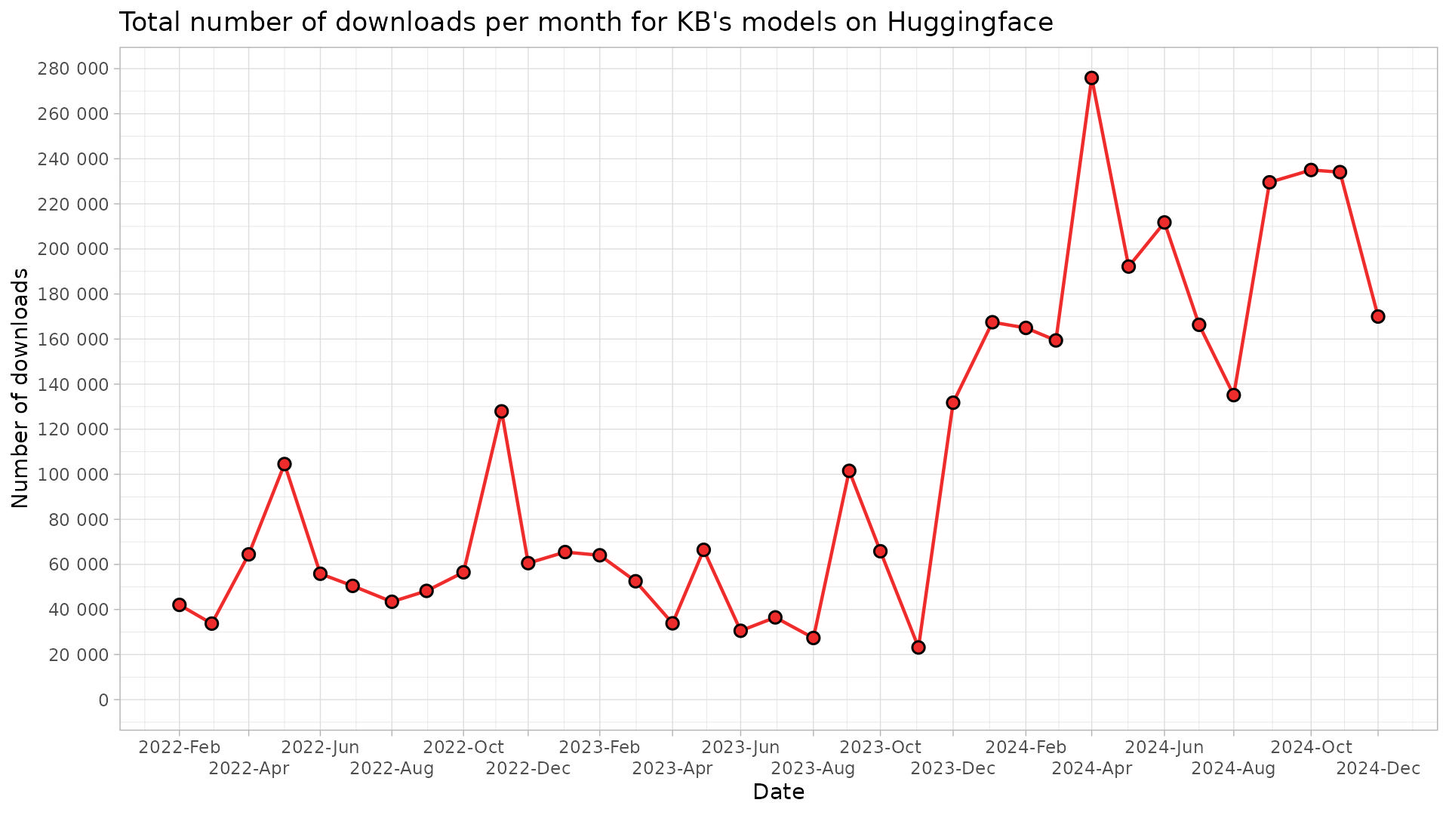
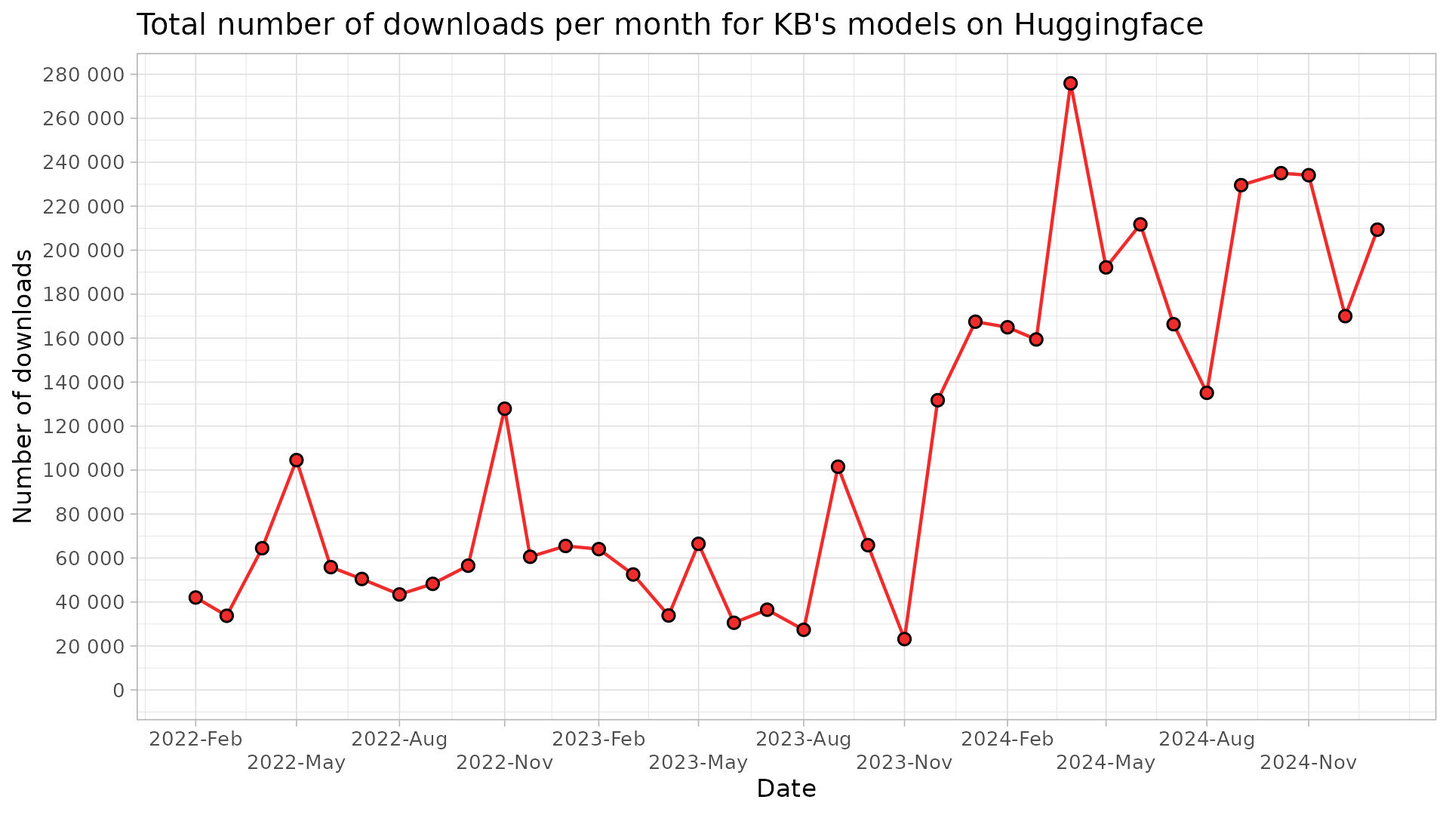
January 2025 update

diff --git a/README.md b/README.md
@@ -12,64 +12,65 @@ Script is run monthly, and a monthly `csv`-file outputted to `/data` folder.
 
 ## Table of downloads
 
-|model_name                                           | 2022-02| 2022-03| 2022-04| 2022-05| 2022-06| 2022-07| 2022-08| 2022-09| 2022-10| 2022-11| 2022-12| 2023-01| 2023-02| 2023-03| 2023-04| 2023-05| 2023-06| 2023-07| 2023-08| 2023-09| 2023-10| 2023-11| 2023-12| 2024-01| 2024-02| 2024-03| 2024-04| 2024-05| 2024-06| 2024-07| 2024-08| 2024-09| 2024-10| 2024-11| 2024-12|
-|:----------------------------------------------------|-------:|-------:|-------:|-------:|-------:|-------:|-------:|-------:|-------:|-------:|-------:|-------:|-------:|-------:|-------:|-------:|-------:|-------:|-------:|-------:|-------:|-------:|-------:|-------:|-------:|-------:|-------:|-------:|-------:|-------:|-------:|-------:|-------:|-------:|-------:|
-|albert-base-swedish-cased-alpha                      |     126|     252|      61|      52|      52|      28|      31|      17|      30|      64|     229|      37|      32|      75|      13|      17|      24|      39|      14|      18|       4|      71|      75|      74|      20|      27|     100|     220|      31|      19|      19|     116|      14|      22|      45|
-|asr-voxrex-bart-base                                 |      11|      10|      19|       5|       2|       1|       1|       3|       2|       3|       2|       4|       9|      15|       7|       2|       4|       7|       4|       3|       8|       2|       5|       1|       6|       8|       5|       8|       8|      50|       6|      20|      12|      29|      36|
-|bart-base-swedish-cased                              |      74|      12|     116|     126|      32|      18|      41|      56|      81|       6|       9|      18|      41|      70|     110|      60|      50|      40|      23|       9|      63|      44|      42|      11|     129|      14|     119|      14|      56|      32|     288|      19|      42|     265|      79|
-|bert-base-swedish-cased                              |   16509|   25080|   49286|   82528|   38802|   29511|   17012|   25106|   36702|   92636|   44016|   28164|   47819|   28864|   17684|   28878|   16390|   24502|   16303|   54271|   29238|    6625|    7620|   17149|    8106|    6290|   10094|    6253|   21139|   15689|    4996|    7660|    8387|   16895|   10877|
-|bert-base-swedish-cased-alpha                        |      22|      24|    1362|      34|       8|      73|       7|      14|      14|      14|      10|     160|     151|       6|       9|       5|       6|       9|       2|      12|       3|       4|       5|       3|       5|      11|      15|       2|       9|       8|       7|      14|      14|       8|      10|
-|bert-base-swedish-cased-ner                          |   19891|    3353|    4783|    4221|   12487|   17406|   24290|   20200|   14852|   11251|   10014|    9759|    9957|   14508|    9834|   12293|    9868|    9701|    8258|    8767|   14214|   10149|  117977|  143050|  139912|  131659|  148695|  144309|  149658|  100264|   93427|  159109|  144069|  124514|   14729|
-|bert-base-swedish-cased-neriob                       |       8|      87|      34|      25|       4|      44|       2|       1|      62|      10|       5|      31|       5|       8|       6|       6|       9|      18|       2|       1|       0|      19|       8|       5|       5|      11|      15|       3|      22|       7|      10|      26|      17|      22|      25|
-|bert-base-swedish-cased-new                          |      NA|       0|     377|    1069|     786|      10|     238|      69|     225|     168|     163|      46|      44|     352|     303|      33|      52|      69|      73|     211|      96|      84|      30|      34|       5|      53|      59|     279|      76|      27|       8|     750|    1045|     421|     166|
-|bert-base-swedish-cased-pos                          |     428|     179|     107|     104|     168|     310|       2|       2|     467|    7959|    2083|   21410|    1713|     300|      15|      28|      58|      64|       9|      75|      28|     312|     159|     166|     239|      33|      20|      12|      80|      32|      15|      47|     104|      43|      75|
-|bert-base-swedish-cased-reallysimple-ner             |       6|      32|       9|       7|      11|      10|       3|       8|      10|      17|       4|      16|     159|     401|     211|     334|     327|     326|      74|     152|     341|     304|     274|       3|       7|      14|      14|       4|      12|       6|      11|      35|      17|      10|      70|
-|bert-base-swedish-cased-squad-experimental           |     323|     136|      45|      23|      40|     182|      25|      27|     101|      10|      22|      62|      56|     643|     130|   16262|      29|      29|       4|      16|      10|     280|      64|      34|     275|      30|      44|       4|      13|      36|      47|      46|      15|      18|      20|
-|bert-base-swedish-lowermix-reallysimple-ner          |       6|     453|     248|     312|     901|     991|     930|     871|    2274|    3958|    1963|    3010|    2567|    2485|    3919|    6258|    2875|     121|      53|     417|    4874|     769|     327|     713|      81|     111|     696|     104|     623|      31|      33|     261|      40|      38|      52|
-|electra-base-swedish-cased-discriminator             |     317|     143|     149|    1404|       2|       3|       3|       3|       2|       5|       0|       7|       2|       0|       6|       7|       4|       8|       0|       1|       0|       4|       0|       1|       4|       5|      15|       2|       5|       4|       4|       4|       3|       2|       9|
-|electra-base-swedish-cased-generator                 |       9|      15|      26|      31|       2|      19|       1|      18|       1|       9|       4|      10|       4|      14|      88|      78|     107|      72|       3|      15|      39|      12|       7|      11|       8|      52|      53|       6|      27|       2|       5|       5|       2|       4|       8|
-|electra-small-swedish-cased-discriminator            |      12|       5|    1467|    3804|      10|       5|       2|       2|       2|      10|       8|      12|     153|       1|       9|       2|       6|       4|      18|       6|       0|       3|       0|       7|      11|      13|       9|       4|       9|       7|      14|       8|      10|       7|      24|
-|electra-small-swedish-cased-generator                |      NA|       3|     138|      14|       4|      19|       2|       3|       4|       8|       6|      11|       4|       3|       6|      14|       4|       9|       0|       1|       0|     131|       5|       3|       5|       9|      13|       2|      10|       4|       9|       8|       3|       3|      13|
-|emotional-classification                             |      NA|      NA|      NA|      NA|      NA|      NA|      NA|      NA|      NA|      NA|      NA|      NA|      NA|      NA|      NA|      NA|      NA|     155|       3|       1|       2|      27|       9|       0|       0|      13|      63|       1|       8|       2|       8|     597|      33|      20|      22|
-|kb-whisper-medium-beta                               |      NA|      NA|      NA|      NA|      NA|      NA|      NA|      NA|      NA|      NA|      NA|      NA|      NA|      NA|      NA|      NA|      NA|      NA|      NA|      NA|      NA|      NA|      NA|      NA|      NA|      NA|      NA|      NA|      NA|      NA|      NA|      NA|      NA|      NA|     111|
-|kb-whisper-small-beta                                |      NA|      NA|      NA|      NA|      NA|      NA|      NA|      NA|      NA|      NA|      NA|      NA|      NA|      NA|      NA|      NA|      NA|      NA|      NA|      NA|      NA|      NA|      NA|      NA|      NA|      NA|      NA|      NA|      NA|      NA|      NA|      NA|      NA|      NA|      32|
-|megatron-bert-base-swedish-cased-125k                |      NA|       0|     353|       0|       2|       8|       1|       3|     131|      55|     158|      27|      21|      19|       7|       6|      10|      10|       4|       2|       0|       4|      29|      22|       5|       3|       4|      67|       8|       2|       6|      32|      17|      27|      35|
-|megatron-bert-base-swedish-cased-600k                |      NA|      10|     288|      87|      30|      16|      16|      17|     111|      12|      20|     194|      27|      49|      13|      15|     100|      22|       2|       2|      15|      12|      41|      21|       5|      67|       6|      71|      30|       6|      13|      19|      18|      27|      40|
-|megatron-bert-large-swedish-cased-110k               |      NA|       0|     346|      77|       4|       4|       0|       1|       1|     171|     160|      15|       8|      23|       4|       2|       4|       3|       0|   33671|   14716|      38|      63|     106|      29|      70|      79|      43|      31|      24|      23|       8|      15|      21|      36|
-|megatron-bert-large-swedish-cased-165-zero-shot      |      NA|      NA|      NA|      NA|      NA|      NA|      NA|      NA|      NA|      NA|       5|      55|      26|      63|      20|     621|      69|     135|      58|     170|      48|     243|     123|      40|     127|     147|      56|     123|     119|       7|      27|      40|      98|     217|     128|
-|megatron-bert-large-swedish-cased-165k               |      NA|      NA|       9|      13|      40|      19|      53|       2|      18|     336|     327|      21|      34|      67|      43|      56|      36|      52|      13|      86|      37|      12|     343|     153|      24|      18|      24|      15|      15|       3|       5|       9|      39|     342|      70|
-|megatron.bert-base.bpe-32k-no_pretok.25k-steps       |      NA|      NA|      NA|      NA|      NA|      NA|      NA|      NA|      NA|      NA|      NA|      NA|      NA|      NA|      NA|      NA|      NA|      NA|      NA|      NA|      NA|      NA|      NA|      NA|      NA|      NA|      NA|       3|       2|       4|       4|       5|       6|       2|      15|
-|megatron.bert-base.bpe-64k-no_pretok.25k-steps       |      NA|      NA|      NA|      NA|      NA|      NA|      NA|      NA|      NA|      NA|      NA|      NA|      NA|      NA|      NA|      NA|      NA|      NA|      NA|      NA|      NA|      NA|      NA|      NA|      NA|      NA|      NA|       3|       3|       3|       5|       4|       3|       2|      16|
-|megatron.bert-base.spe-bpe-32k-no_pretok.25k-steps   |      NA|      NA|      NA|      NA|      NA|      NA|      NA|      NA|      NA|      NA|      NA|      NA|      NA|      NA|      NA|      NA|      NA|      NA|      NA|      NA|      NA|      NA|      NA|      NA|      NA|      NA|      NA|       3|       3|       3|       4|       4|       6|       4|      16|
-|megatron.bert-base.spe-bpe-32k-pretok.25k-steps      |      NA|      NA|      NA|      NA|      NA|      NA|      NA|      NA|      NA|      NA|      NA|      NA|      NA|      NA|      NA|      NA|      NA|      NA|      NA|      NA|      NA|      NA|      NA|      NA|      NA|      NA|      NA|       3|       3|       3|       4|       4|       4|       2|      16|
-|megatron.bert-base.spe-bpe-64k-no_pretok.25k-steps   |      NA|      NA|      NA|      NA|      NA|      NA|      NA|      NA|      NA|      NA|      NA|      NA|      NA|      NA|      NA|      NA|      NA|      NA|      NA|      NA|      NA|      NA|      NA|      NA|      NA|      NA|      NA|       3|       3|       4|       4|       4|       0|       2|      18|
-|megatron.bert-base.spe-bpe-64k-pretok.25k-steps      |      NA|      NA|      NA|      NA|      NA|      NA|      NA|      NA|      NA|      NA|      NA|      NA|      NA|      NA|      NA|      NA|      NA|      NA|      NA|      NA|      NA|      NA|      NA|      NA|      NA|      NA|      NA|       3|       3|       2|       4|       5|       2|       2|      15|
-|megatron.bert-base.unigram-32k-no_pretok.25k-steps   |      NA|      NA|      NA|      NA|      NA|      NA|      NA|      NA|      NA|      NA|      NA|      NA|      NA|      NA|      NA|      NA|      NA|      NA|      NA|      NA|      NA|      NA|      NA|      NA|      NA|      NA|      NA|       3|       3|       3|       4|       4|       7|       0|      18|
-|megatron.bert-base.unigram-32k-pretok.25k-steps      |      NA|      NA|      NA|      NA|      NA|      NA|      NA|      NA|      NA|      NA|      NA|      NA|      NA|      NA|      NA|      NA|      NA|      NA|      NA|      NA|      NA|      NA|      NA|      NA|      NA|      NA|      NA|       3|       3|       3|       4|       3|       3|       2|      16|
-|megatron.bert-base.unigram-64k-no_pretok.25k-steps   |      NA|      NA|      NA|      NA|      NA|      NA|      NA|      NA|      NA|      NA|      NA|      NA|      NA|      NA|      NA|      NA|      NA|      NA|      NA|      NA|      NA|      NA|      NA|      NA|      NA|      NA|      NA|       3|       3|       3|       5|       4|       4|       0|      16|
-|megatron.bert-base.unigram-64k-pretok.25k-steps      |      NA|      NA|      NA|      NA|      NA|      NA|      NA|      NA|      NA|      NA|      NA|      NA|      NA|      NA|      NA|      NA|      NA|      NA|      NA|      NA|      NA|      NA|      NA|      NA|      NA|      NA|      NA|       3|       4|       3|       4|       4|       8|       2|      16|
-|megatron.bert-base.wordpiece-32k-no_pretok.25k-steps |      NA|      NA|      NA|      NA|      NA|      NA|      NA|      NA|      NA|      NA|      NA|      NA|      NA|      NA|      NA|      NA|      NA|      NA|      NA|      NA|      NA|      NA|      NA|      NA|      NA|      NA|      NA|       3|       3|       3|       4|       4|      15|       1|      17|
-|megatron.bert-base.wordpiece-32k-pretok.25k-steps    |      NA|      NA|      NA|      NA|      NA|      NA|      NA|      NA|      NA|      NA|      NA|      NA|      NA|      NA|      NA|      NA|      NA|      NA|      NA|      NA|      NA|      NA|      NA|      NA|      NA|      NA|      NA|       9|       3|       3|       5|       5|       7|       3|      15|
-|megatron.bert-base.wordpiece-64k-no_pretok.25k-steps |      NA|      NA|      NA|      NA|      NA|      NA|      NA|      NA|      NA|      NA|      NA|      NA|      NA|      NA|      NA|      NA|      NA|      NA|      NA|      NA|      NA|      NA|      NA|      NA|      NA|      NA|      NA|       3|       3|       3|       5|       6|       5|       2|      17|
-|megatron.bert-base.wordpiece-64k-pretok.25k-steps    |      NA|      NA|      NA|      NA|      NA|      NA|      NA|      NA|      NA|      NA|      NA|      NA|      NA|      NA|      NA|      NA|      NA|      NA|      NA|      NA|      NA|      NA|      NA|      NA|      NA|      NA|      NA|       3|       3|       2|       4|      13|       4|       2|      16|
-|megatron.bert-large.bpe-64k-no_pretok.25k-steps      |      NA|      NA|      NA|      NA|      NA|      NA|      NA|      NA|      NA|      NA|      NA|      NA|      NA|      NA|      NA|      NA|      NA|      NA|      NA|      NA|      NA|      NA|      NA|      NA|      NA|      NA|      NA|       3|       3|       3|       4|       6|       4|       3|      17|
-|megatron.bert-large.spe-bpe-32k-pretok.25k-steps     |      NA|      NA|      NA|      NA|      NA|      NA|      NA|      NA|      NA|      NA|      NA|      NA|      NA|      NA|      NA|      NA|      NA|      NA|      NA|      NA|      NA|      NA|      NA|      NA|      NA|      NA|      NA|       3|       3|       3|       4|       7|      13|       3|      15|
-|megatron.bert-large.unigram-32k-pretok.25k-steps     |      NA|      NA|      NA|      NA|      NA|      NA|      NA|      NA|      NA|      NA|      NA|      NA|      NA|      NA|      NA|      NA|      NA|      NA|      NA|      NA|      NA|      NA|      NA|      NA|      NA|      NA|      NA|       3|       3|       2|       4|       5|       7|       4|      24|
-|megatron.bert-large.unigram-64k-pretok.25k-steps     |      NA|      NA|      NA|      NA|      NA|      NA|      NA|      NA|      NA|      NA|      NA|      NA|      NA|      NA|      NA|      NA|      NA|      NA|      NA|      NA|      NA|      NA|      NA|      NA|      NA|      NA|      NA|       3|       3|       3|       5|       7|       2|       3|      20|
-|megatron.bert-large.unigram-64k-pretok.500k-steps    |      NA|      NA|      NA|      NA|      NA|      NA|      NA|      NA|      NA|      NA|      NA|      NA|      NA|      NA|      NA|      NA|      NA|      NA|      NA|      NA|      NA|      NA|      NA|      NA|      NA|     310|      11|       1|       1|       2|       4|       5|       7|       0|       7|
-|megatron.bert-large.wordpiece-32k-pretok.25k-steps   |      NA|      NA|      NA|      NA|      NA|      NA|      NA|      NA|      NA|      NA|      NA|      NA|      NA|      NA|      NA|      NA|      NA|      NA|      NA|      NA|      NA|      NA|      NA|      NA|      NA|      NA|      NA|       3|       3|       3|       5|       6|       6|       3|      17|
-|megatron.bert-large.wordpiece-64k-pretok.25k-steps   |      NA|      NA|      NA|      NA|      NA|      NA|      NA|      NA|      NA|      NA|      NA|      NA|      NA|      NA|      NA|      NA|      NA|      NA|      NA|      NA|      NA|      NA|      NA|      NA|      NA|      NA|      NA|       9|       4|       3|       5|       5|       7|       2|      17|
-|piper-tts-nst-swedish                                |      NA|      NA|      NA|      NA|      NA|      NA|      NA|      NA|      NA|      NA|      NA|      NA|      NA|      NA|      NA|       1|       8|       3|       0|       0|       0|       1|       0|       0|       0|       3|       7|      11|       3|       1|       6|       1|       8|       6|       9|
-|roberta-base-swedish-cased                           |       7|       7|     471|       8|      78|       5|      67|       2|       0|       5|       5|      37|     150|       3|       6|     204|      10|       9|       1|       2|       2|       2|       3|       3|      30|      15|       9|       3|      10|       3|       8|       7|       8|       3|       9|
-|robust-swedish-sentiment-multiclass                  |      NA|      NA|      NA|      NA|      NA|      NA|      NA|      NA|      NA|      NA|      NA|      NA|      NA|      NA|      NA|      NA|      12|     296|       8|      58|     119|    1505|    2263|    2206|    2178|    2895|    7783|    2968|    5544|   36910|    5320|   10749|    5771|    7277|   46387|
-|sentence-bert-swedish-cased                          |    2033|    1988|    2079|    8110|     721|    1299|     304|    1157|     597|    1008|     887|    1441|     546|    3499|     955|     970|     327|     328|    2135|    2841|    1071|    1067|    1258|     383|    1733|    6143|  101722|    8376|   15360|    1376|    1874|   23133|    6131|    4970|   12598|
-|swedish-ocr-correction                               |      NA|      NA|      NA|      NA|      NA|      NA|      NA|      NA|      NA|      NA|      NA|      NA|      NA|      NA|      NA|      NA|      NA|      NA|      NA|      NA|      NA|      NA|      NA|      NA|      NA|      NA|      NA|      NA|      NA|      NA|      NA|      NA|      16|      17|      15|
-|swedish-spacy-pipeline                               |      65|      22|       5|       2|       5|       9|       1|       2|       0|       1|       3|       4|       6|      90|       3|       1|       0|       1|       3|       9|       5|       5|       5|       3|      56|       5|       4|       2|       2|       8|       9|       5|      28|       8|      12|
-|wav2vec2-base-voxpopuli-sv-swedish                   |      NA|      21|      19|       7|       1|      NA|       1|       5|      99|       6|       2|      13|      57|      12|      56|       4|      26|       9|       0|       1|       7|       4|       2|     113|       5|       6|      12|       4|       9|       6|      14|      27|      20|      23|      18|
-|wav2vec2-large-voxpopuli-sv-swedish                  |      58|      32|      73|      57|      24|       5|       5|      11|      59|      15|       7|      23|       9|      10|      13|      10|       7|      14|       4|       1|       5|      26|       2|       3|      12|     117|      14|      13|       2|      19|      12|      14|      41|      23|      15|
-|wav2vec2-large-voxrex                                |     780|     609|     996|      57|     102|      55|      13|      34|      74|       4|       0|      56|      17|      11|       8|      17|       4|      15|       2|       1|      13|       6|       3|       1|      12|      10|      10|      20|      18|       8|      13|      94|      35|      53|      23|
-|wav2vec2-large-voxrex-swedish                        |    1356|    1151|    1534|    2331|    1277|     334|     361|     611|     531|   10157|     146|     770|     411|     732|     290|     225|      65|     330|     217|     624|     752|     769|     829|     392|    3000|    2389|    3129|    4330|    5762|    7066|   20122|    7507|   38441|   39341|   53597|
-|wav2vec2-large-xlsr-53-swedish                       |      NA|     112|      55|      32|     259|      91|      19|       9|      61|      26|     307|      71|      32|      76|      26|      31|      45|      65|      50|      77|     126|     586|     188|    2766|    8897|    8785|    2962|   24811|   12976|    4572|    8654|   19055|   30321|   39315|   30187|
-|whisper-large-rixvox                                 |      NA|      NA|      NA|      NA|      NA|      NA|      NA|      NA|      NA|      NA|      NA|      NA|      NA|     113|      56|       8|       9|      12|       9|       6|       0|      16|       0|       2|      19|      38|      18|      12|      11|      31|       8|      28|      57|      44|      47|
-|whisper-small-rixvox                                 |      NA|      NA|      NA|      NA|      NA|      NA|      NA|      NA|      NA|      NA|      NA|      NA|      NA|       3|       1|       6|       2|       7|       0|       0|       0|       1|       0|       0|       0|      13|       2|       1|       7|       1|       6|       4|       3|       8|      15|
-|whisper-tiny-rixvox                                  |      NA|      NA|      NA|      NA|      NA|      NA|      NA|      NA|      NA|      NA|      NA|      NA|      NA|       9|       1|       5|       4|       7|       3|       0|       0|       1|       0|       0|       2|      12|       6|       1|       7|       1|       5|       3|       9|       7|       9|
+|model_name                                           | 2022-02| 2022-03| 2022-04| 2022-05| 2022-06| 2022-07| 2022-08| 2022-09| 2022-10| 2022-11| 2022-12| 2023-01| 2023-02| 2023-03| 2023-04| 2023-05| 2023-06| 2023-07| 2023-08| 2023-09| 2023-10| 2023-11| 2023-12| 2024-01| 2024-02| 2024-03| 2024-04| 2024-05| 2024-06| 2024-07| 2024-08| 2024-09| 2024-10| 2024-11| 2024-12| 2025-01|
+|:----------------------------------------------------|-------:|-------:|-------:|-------:|-------:|-------:|-------:|-------:|-------:|-------:|-------:|-------:|-------:|-------:|-------:|-------:|-------:|-------:|-------:|-------:|-------:|-------:|-------:|-------:|-------:|-------:|-------:|-------:|-------:|-------:|-------:|-------:|-------:|-------:|-------:|-------:|
+|albert-base-swedish-cased-alpha                      |     126|     252|      61|      52|      52|      28|      31|      17|      30|      64|     229|      37|      32|      75|      13|      17|      24|      39|      14|      18|       4|      71|      75|      74|      20|      27|     100|     220|      31|      19|      19|     116|      14|      22|      45|       9|
+|asr-voxrex-bart-base                                 |      11|      10|      19|       5|       2|       1|       1|       3|       2|       3|       2|       4|       9|      15|       7|       2|       4|       7|       4|       3|       8|       2|       5|       1|       6|       8|       5|       8|       8|      50|       6|      20|      12|      29|      36|      14|
+|bart-base-swedish-cased                              |      74|      12|     116|     126|      32|      18|      41|      56|      81|       6|       9|      18|      41|      70|     110|      60|      50|      40|      23|       9|      63|      44|      42|      11|     129|      14|     119|      14|      56|      32|     288|      19|      42|     265|      79|      14|
+|bert-base-swedish-cased                              |   16509|   25080|   49286|   82528|   38802|   29511|   17012|   25106|   36702|   92636|   44016|   28164|   47819|   28864|   17684|   28878|   16390|   24502|   16303|   54271|   29238|    6625|    7620|   17149|    8106|    6290|   10094|    6253|   21139|   15689|    4996|    7660|    8387|   16895|   10877|    8165|
+|bert-base-swedish-cased-alpha                        |      22|      24|    1362|      34|       8|      73|       7|      14|      14|      14|      10|     160|     151|       6|       9|       5|       6|       9|       2|      12|       3|       4|       5|       3|       5|      11|      15|       2|       9|       8|       7|      14|      14|       8|      10|      10|
+|bert-base-swedish-cased-ner                          |   19891|    3353|    4783|    4221|   12487|   17406|   24290|   20200|   14852|   11251|   10014|    9759|    9957|   14508|    9834|   12293|    9868|    9701|    8258|    8767|   14214|   10149|  117977|  143050|  139912|  131659|  148695|  144309|  149658|  100264|   93427|  159109|  144069|  124514|   14729|   12120|
+|bert-base-swedish-cased-neriob                       |       8|      87|      34|      25|       4|      44|       2|       1|      62|      10|       5|      31|       5|       8|       6|       6|       9|      18|       2|       1|       0|      19|       8|       5|       5|      11|      15|       3|      22|       7|      10|      26|      17|      22|      25|      77|
+|bert-base-swedish-cased-new                          |      NA|       0|     377|    1069|     786|      10|     238|      69|     225|     168|     163|      46|      44|     352|     303|      33|      52|      69|      73|     211|      96|      84|      30|      34|       5|      53|      59|     279|      76|      27|       8|     750|    1045|     421|     166|      22|
+|bert-base-swedish-cased-pos                          |     428|     179|     107|     104|     168|     310|       2|       2|     467|    7959|    2083|   21410|    1713|     300|      15|      28|      58|      64|       9|      75|      28|     312|     159|     166|     239|      33|      20|      12|      80|      32|      15|      47|     104|      43|      75|      65|
+|bert-base-swedish-cased-reallysimple-ner             |       6|      32|       9|       7|      11|      10|       3|       8|      10|      17|       4|      16|     159|     401|     211|     334|     327|     326|      74|     152|     341|     304|     274|       3|       7|      14|      14|       4|      12|       6|      11|      35|      17|      10|      70|      44|
+|bert-base-swedish-cased-squad-experimental           |     323|     136|      45|      23|      40|     182|      25|      27|     101|      10|      22|      62|      56|     643|     130|   16262|      29|      29|       4|      16|      10|     280|      64|      34|     275|      30|      44|       4|      13|      36|      47|      46|      15|      18|      20|      42|
+|bert-base-swedish-lowermix-reallysimple-ner          |       6|     453|     248|     312|     901|     991|     930|     871|    2274|    3958|    1963|    3010|    2567|    2485|    3919|    6258|    2875|     121|      53|     417|    4874|     769|     327|     713|      81|     111|     696|     104|     623|      31|      33|     261|      40|      38|      52|      56|
+|electra-base-swedish-cased-discriminator             |     317|     143|     149|    1404|       2|       3|       3|       3|       2|       5|       0|       7|       2|       0|       6|       7|       4|       8|       0|       1|       0|       4|       0|       1|       4|       5|      15|       2|       5|       4|       4|       4|       3|       2|       9|       6|
+|electra-base-swedish-cased-generator                 |       9|      15|      26|      31|       2|      19|       1|      18|       1|       9|       4|      10|       4|      14|      88|      78|     107|      72|       3|      15|      39|      12|       7|      11|       8|      52|      53|       6|      27|       2|       5|       5|       2|       4|       8|       5|
+|electra-small-swedish-cased-discriminator            |      12|       5|    1467|    3804|      10|       5|       2|       2|       2|      10|       8|      12|     153|       1|       9|       2|       6|       4|      18|       6|       0|       3|       0|       7|      11|      13|       9|       4|       9|       7|      14|       8|      10|       7|      24|      13|
+|electra-small-swedish-cased-generator                |      NA|       3|     138|      14|       4|      19|       2|       3|       4|       8|       6|      11|       4|       3|       6|      14|       4|       9|       0|       1|       0|     131|       5|       3|       5|       9|      13|       2|      10|       4|       9|       8|       3|       3|      13|       4|
+|emotional-classification                             |      NA|      NA|      NA|      NA|      NA|      NA|      NA|      NA|      NA|      NA|      NA|      NA|      NA|      NA|      NA|      NA|      NA|     155|       3|       1|       2|      27|       9|       0|       0|      13|      63|       1|       8|       2|       8|     597|      33|      20|      22|      18|
+|kb-whisper-large-beta                                |      NA|      NA|      NA|      NA|      NA|      NA|      NA|      NA|      NA|      NA|      NA|      NA|      NA|      NA|      NA|      NA|      NA|      NA|      NA|      NA|      NA|      NA|      NA|      NA|      NA|      NA|      NA|      NA|      NA|      NA|      NA|      NA|      NA|      NA|      NA|      12|
+|kb-whisper-medium-beta                               |      NA|      NA|      NA|      NA|      NA|      NA|      NA|      NA|      NA|      NA|      NA|      NA|      NA|      NA|      NA|      NA|      NA|      NA|      NA|      NA|      NA|      NA|      NA|      NA|      NA|      NA|      NA|      NA|      NA|      NA|      NA|      NA|      NA|      NA|     111|      85|
+|kb-whisper-small-beta                                |      NA|      NA|      NA|      NA|      NA|      NA|      NA|      NA|      NA|      NA|      NA|      NA|      NA|      NA|      NA|      NA|      NA|      NA|      NA|      NA|      NA|      NA|      NA|      NA|      NA|      NA|      NA|      NA|      NA|      NA|      NA|      NA|      NA|      NA|      32|      33|
+|megatron-bert-base-swedish-cased-125k                |      NA|       0|     353|       0|       2|       8|       1|       3|     131|      55|     158|      27|      21|      19|       7|       6|      10|      10|       4|       2|       0|       4|      29|      22|       5|       3|       4|      67|       8|       2|       6|      32|      17|      27|      35|       5|
+|megatron-bert-base-swedish-cased-600k                |      NA|      10|     288|      87|      30|      16|      16|      17|     111|      12|      20|     194|      27|      49|      13|      15|     100|      22|       2|       2|      15|      12|      41|      21|       5|      67|       6|      71|      30|       6|      13|      19|      18|      27|      40|       8|
+|megatron-bert-large-swedish-cased-110k               |      NA|       0|     346|      77|       4|       4|       0|       1|       1|     171|     160|      15|       8|      23|       4|       2|       4|       3|       0|   33671|   14716|      38|      63|     106|      29|      70|      79|      43|      31|      24|      23|       8|      15|      21|      36|       4|
+|megatron-bert-large-swedish-cased-165-zero-shot      |      NA|      NA|      NA|      NA|      NA|      NA|      NA|      NA|      NA|      NA|       5|      55|      26|      63|      20|     621|      69|     135|      58|     170|      48|     243|     123|      40|     127|     147|      56|     123|     119|       7|      27|      40|      98|     217|     128|      57|
+|megatron-bert-large-swedish-cased-165k               |      NA|      NA|       9|      13|      40|      19|      53|       2|      18|     336|     327|      21|      34|      67|      43|      56|      36|      52|      13|      86|      37|      12|     343|     153|      24|      18|      24|      15|      15|       3|       5|       9|      39|     342|      70|      14|
+|megatron.bert-base.bpe-32k-no_pretok.25k-steps       |      NA|      NA|      NA|      NA|      NA|      NA|      NA|      NA|      NA|      NA|      NA|      NA|      NA|      NA|      NA|      NA|      NA|      NA|      NA|      NA|      NA|      NA|      NA|      NA|      NA|      NA|      NA|       3|       2|       4|       4|       5|       6|       2|      15|       2|
+|megatron.bert-base.bpe-64k-no_pretok.25k-steps       |      NA|      NA|      NA|      NA|      NA|      NA|      NA|      NA|      NA|      NA|      NA|      NA|      NA|      NA|      NA|      NA|      NA|      NA|      NA|      NA|      NA|      NA|      NA|      NA|      NA|      NA|      NA|       3|       3|       3|       5|       4|       3|       2|      16|       2|
+|megatron.bert-base.spe-bpe-32k-no_pretok.25k-steps   |      NA|      NA|      NA|      NA|      NA|      NA|      NA|      NA|      NA|      NA|      NA|      NA|      NA|      NA|      NA|      NA|      NA|      NA|      NA|      NA|      NA|      NA|      NA|      NA|      NA|      NA|      NA|       3|       3|       3|       4|       4|       6|       4|      16|       2|
+|megatron.bert-base.spe-bpe-32k-pretok.25k-steps      |      NA|      NA|      NA|      NA|      NA|      NA|      NA|      NA|      NA|      NA|      NA|      NA|      NA|      NA|      NA|      NA|      NA|      NA|      NA|      NA|      NA|      NA|      NA|      NA|      NA|      NA|      NA|       3|       3|       3|       4|       4|       4|       2|      16|       5|
+|megatron.bert-base.spe-bpe-64k-no_pretok.25k-steps   |      NA|      NA|      NA|      NA|      NA|      NA|      NA|      NA|      NA|      NA|      NA|      NA|      NA|      NA|      NA|      NA|      NA|      NA|      NA|      NA|      NA|      NA|      NA|      NA|      NA|      NA|      NA|       3|       3|       4|       4|       4|       0|       2|      18|       2|
+|megatron.bert-base.spe-bpe-64k-pretok.25k-steps      |      NA|      NA|      NA|      NA|      NA|      NA|      NA|      NA|      NA|      NA|      NA|      NA|      NA|      NA|      NA|      NA|      NA|      NA|      NA|      NA|      NA|      NA|      NA|      NA|      NA|      NA|      NA|       3|       3|       2|       4|       5|       2|       2|      15|       2|
+|megatron.bert-base.unigram-32k-no_pretok.25k-steps   |      NA|      NA|      NA|      NA|      NA|      NA|      NA|      NA|      NA|      NA|      NA|      NA|      NA|      NA|      NA|      NA|      NA|      NA|      NA|      NA|      NA|      NA|      NA|      NA|      NA|      NA|      NA|       3|       3|       3|       4|       4|       7|       0|      18|       2|
+|megatron.bert-base.unigram-32k-pretok.25k-steps      |      NA|      NA|      NA|      NA|      NA|      NA|      NA|      NA|      NA|      NA|      NA|      NA|      NA|      NA|      NA|      NA|      NA|      NA|      NA|      NA|      NA|      NA|      NA|      NA|      NA|      NA|      NA|       3|       3|       3|       4|       3|       3|       2|      16|       2|
+|megatron.bert-base.unigram-64k-no_pretok.25k-steps   |      NA|      NA|      NA|      NA|      NA|      NA|      NA|      NA|      NA|      NA|      NA|      NA|      NA|      NA|      NA|      NA|      NA|      NA|      NA|      NA|      NA|      NA|      NA|      NA|      NA|      NA|      NA|       3|       3|       3|       5|       4|       4|       0|      16|       2|
+|megatron.bert-base.unigram-64k-pretok.25k-steps      |      NA|      NA|      NA|      NA|      NA|      NA|      NA|      NA|      NA|      NA|      NA|      NA|      NA|      NA|      NA|      NA|      NA|      NA|      NA|      NA|      NA|      NA|      NA|      NA|      NA|      NA|      NA|       3|       4|       3|       4|       4|       8|       2|      16|       2|
+|megatron.bert-base.wordpiece-32k-no_pretok.25k-steps |      NA|      NA|      NA|      NA|      NA|      NA|      NA|      NA|      NA|      NA|      NA|      NA|      NA|      NA|      NA|      NA|      NA|      NA|      NA|      NA|      NA|      NA|      NA|      NA|      NA|      NA|      NA|       3|       3|       3|       4|       4|      15|       1|      17|       9|
+|megatron.bert-base.wordpiece-32k-pretok.25k-steps    |      NA|      NA|      NA|      NA|      NA|      NA|      NA|      NA|      NA|      NA|      NA|      NA|      NA|      NA|      NA|      NA|      NA|      NA|      NA|      NA|      NA|      NA|      NA|      NA|      NA|      NA|      NA|       9|       3|       3|       5|       5|       7|       3|      15|       1|
+|megatron.bert-base.wordpiece-64k-no_pretok.25k-steps |      NA|      NA|      NA|      NA|      NA|      NA|      NA|      NA|      NA|      NA|      NA|      NA|      NA|      NA|      NA|      NA|      NA|      NA|      NA|      NA|      NA|      NA|      NA|      NA|      NA|      NA|      NA|       3|       3|       3|       5|       6|       5|       2|      17|       3|
+|megatron.bert-base.wordpiece-64k-pretok.25k-steps    |      NA|      NA|      NA|      NA|      NA|      NA|      NA|      NA|      NA|      NA|      NA|      NA|      NA|      NA|      NA|      NA|      NA|      NA|      NA|      NA|      NA|      NA|      NA|      NA|      NA|      NA|      NA|       3|       3|       2|       4|      13|       4|       2|      16|       3|
+|megatron.bert-large.bpe-64k-no_pretok.25k-steps      |      NA|      NA|      NA|      NA|      NA|      NA|      NA|      NA|      NA|      NA|      NA|      NA|      NA|      NA|      NA|      NA|      NA|      NA|      NA|      NA|      NA|      NA|      NA|      NA|      NA|      NA|      NA|       3|       3|       3|       4|       6|       4|       3|      17|       2|
+|megatron.bert-large.spe-bpe-32k-pretok.25k-steps     |      NA|      NA|      NA|      NA|      NA|      NA|      NA|      NA|      NA|      NA|      NA|      NA|      NA|      NA|      NA|      NA|      NA|      NA|      NA|      NA|      NA|      NA|      NA|      NA|      NA|      NA|      NA|       3|       3|       3|       4|       7|      13|       3|      15|       4|
+|megatron.bert-large.unigram-32k-pretok.25k-steps     |      NA|      NA|      NA|      NA|      NA|      NA|      NA|      NA|      NA|      NA|      NA|      NA|      NA|      NA|      NA|      NA|      NA|      NA|      NA|      NA|      NA|      NA|      NA|      NA|      NA|      NA|      NA|       3|       3|       2|       4|       5|       7|       4|      24|       4|
+|megatron.bert-large.unigram-64k-pretok.25k-steps     |      NA|      NA|      NA|      NA|      NA|      NA|      NA|      NA|      NA|      NA|      NA|      NA|      NA|      NA|      NA|      NA|      NA|      NA|      NA|      NA|      NA|      NA|      NA|      NA|      NA|      NA|      NA|       3|       3|       3|       5|       7|       2|       3|      20|       6|
+|megatron.bert-large.unigram-64k-pretok.500k-steps    |      NA|      NA|      NA|      NA|      NA|      NA|      NA|      NA|      NA|      NA|      NA|      NA|      NA|      NA|      NA|      NA|      NA|      NA|      NA|      NA|      NA|      NA|      NA|      NA|      NA|     310|      11|       1|       1|       2|       4|       5|       7|       0|       7|       1|
+|megatron.bert-large.wordpiece-32k-pretok.25k-steps   |      NA|      NA|      NA|      NA|      NA|      NA|      NA|      NA|      NA|      NA|      NA|      NA|      NA|      NA|      NA|      NA|      NA|      NA|      NA|      NA|      NA|      NA|      NA|      NA|      NA|      NA|      NA|       3|       3|       3|       5|       6|       6|       3|      17|       3|
+|megatron.bert-large.wordpiece-64k-pretok.25k-steps   |      NA|      NA|      NA|      NA|      NA|      NA|      NA|      NA|      NA|      NA|      NA|      NA|      NA|      NA|      NA|      NA|      NA|      NA|      NA|      NA|      NA|      NA|      NA|      NA|      NA|      NA|      NA|       9|       4|       3|       5|       5|       7|       2|      17|       2|
+|piper-tts-nst-swedish                                |      NA|      NA|      NA|      NA|      NA|      NA|      NA|      NA|      NA|      NA|      NA|      NA|      NA|      NA|      NA|       1|       8|       3|       0|       0|       0|       1|       0|       0|       0|       3|       7|      11|       3|       1|       6|       1|       8|       6|       9|       5|
+|roberta-base-swedish-cased                           |       7|       7|     471|       8|      78|       5|      67|       2|       0|       5|       5|      37|     150|       3|       6|     204|      10|       9|       1|       2|       2|       2|       3|       3|      30|      15|       9|       3|      10|       3|       8|       7|       8|       3|       9|       9|
+|robust-swedish-sentiment-multiclass                  |      NA|      NA|      NA|      NA|      NA|      NA|      NA|      NA|      NA|      NA|      NA|      NA|      NA|      NA|      NA|      NA|      12|     296|       8|      58|     119|    1505|    2263|    2206|    2178|    2895|    7783|    2968|    5544|   36910|    5320|   10749|    5771|    7277|   46387|   10282|
+|sentence-bert-swedish-cased                          |    2033|    1988|    2079|    8110|     721|    1299|     304|    1157|     597|    1008|     887|    1441|     546|    3499|     955|     970|     327|     328|    2135|    2841|    1071|    1067|    1258|     383|    1733|    6143|  101722|    8376|   15360|    1376|    1874|   23133|    6131|    4970|   12598|   45750|
+|swedish-ocr-correction                               |      NA|      NA|      NA|      NA|      NA|      NA|      NA|      NA|      NA|      NA|      NA|      NA|      NA|      NA|      NA|      NA|      NA|      NA|      NA|      NA|      NA|      NA|      NA|      NA|      NA|      NA|      NA|      NA|      NA|      NA|      NA|      NA|      16|      17|      15|       9|
+|swedish-spacy-pipeline                               |      65|      22|       5|       2|       5|       9|       1|       2|       0|       1|       3|       4|       6|      90|       3|       1|       0|       1|       3|       9|       5|       5|       5|       3|      56|       5|       4|       2|       2|       8|       9|       5|      28|       8|      12|       2|
+|wav2vec2-base-voxpopuli-sv-swedish                   |      NA|      21|      19|       7|       1|      NA|       1|       5|      99|       6|       2|      13|      57|      12|      56|       4|      26|       9|       0|       1|       7|       4|       2|     113|       5|       6|      12|       4|       9|       6|      14|      27|      20|      23|      18|       7|
+|wav2vec2-large-voxpopuli-sv-swedish                  |      58|      32|      73|      57|      24|       5|       5|      11|      59|      15|       7|      23|       9|      10|      13|      10|       7|      14|       4|       1|       5|      26|       2|       3|      12|     117|      14|      13|       2|      19|      12|      14|      41|      23|      15|   64165|
+|wav2vec2-large-voxrex                                |     780|     609|     996|      57|     102|      55|      13|      34|      74|       4|       0|      56|      17|      11|       8|      17|       4|      15|       2|       1|      13|       6|       3|       1|      12|      10|      10|      20|      18|       8|      13|      94|      35|      53|      23|      10|
+|wav2vec2-large-voxrex-swedish                        |    1356|    1151|    1534|    2331|    1277|     334|     361|     611|     531|   10157|     146|     770|     411|     732|     290|     225|      65|     330|     217|     624|     752|     769|     829|     392|    3000|    2389|    3129|    4330|    5762|    7066|   20122|    7507|   38441|   39341|   53597|   49498|
+|wav2vec2-large-xlsr-53-swedish                       |      NA|     112|      55|      32|     259|      91|      19|       9|      61|      26|     307|      71|      32|      76|      26|      31|      45|      65|      50|      77|     126|     586|     188|    2766|    8897|    8785|    2962|   24811|   12976|    4572|    8654|   19055|   30321|   39315|   30187|   18596|
+|whisper-large-rixvox                                 |      NA|      NA|      NA|      NA|      NA|      NA|      NA|      NA|      NA|      NA|      NA|      NA|      NA|     113|      56|       8|       9|      12|       9|       6|       0|      16|       0|       2|      19|      38|      18|      12|      11|      31|       8|      28|      57|      44|      47|      32|
+|whisper-small-rixvox                                 |      NA|      NA|      NA|      NA|      NA|      NA|      NA|      NA|      NA|      NA|      NA|      NA|      NA|       3|       1|       6|       2|       7|       0|       0|       0|       1|       0|       0|       0|      13|       2|       1|       7|       1|       6|       4|       3|       8|      15|       3|
+|whisper-tiny-rixvox                                  |      NA|      NA|      NA|      NA|      NA|      NA|      NA|      NA|      NA|      NA|      NA|      NA|      NA|       9|       1|       5|       4|       7|       3|       0|       0|       1|       0|       0|       2|      12|       6|       1|       7|       1|       5|       3|       9|       7|       9|       4|
